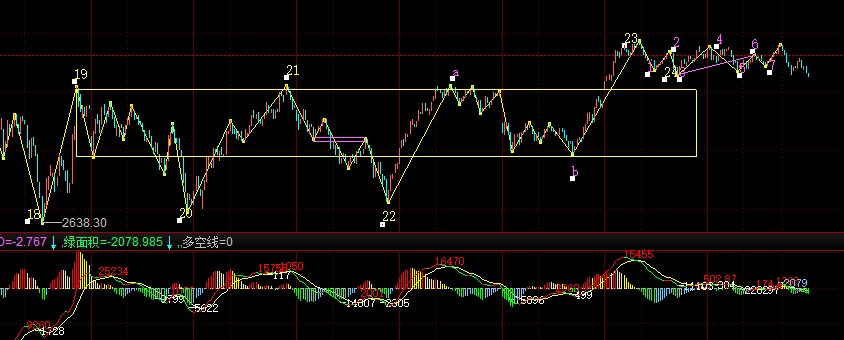
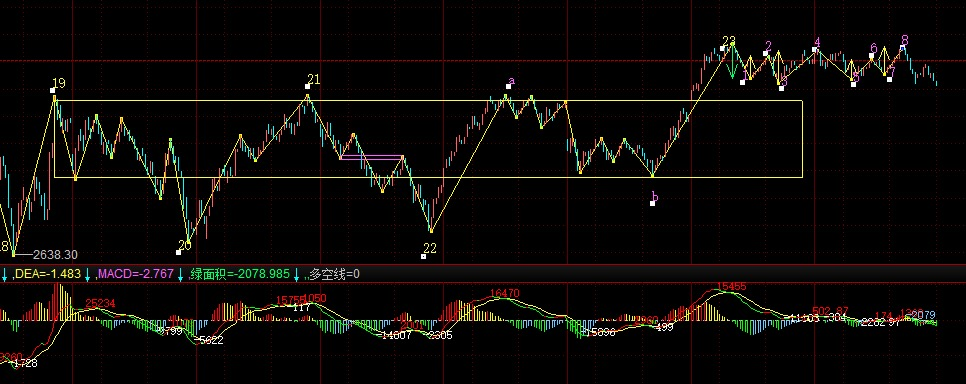
Site updated: 2016-02-06 11:05:54

diff --git a/2016/02/05/大盘分析/20160205大盘分析/index.html b/2016/02/05/大盘分析/20160205大盘分析/index.html
@@ -14,7 +14,7 @@
 <meta property="og:description" content="&amp;#x4E0A;&amp;#x8BC1;5&amp;#x5206;&amp;#x949F;a-b&amp;#x5411;&amp;#x4E0B;&amp;#x672A;&amp;#x7834;22&amp;#x70B9;&amp;#xFF0C;b&amp;#x70B9;&amp;#x5411;&amp;#x4E0A;&amp;#x7834;a&amp;#x70B9;&amp;#xFF0C;22-23&amp;#x4E3A;&amp;#x5411;&amp;#x4E0A;&amp;#x7EBF;&amp;#x6BB5;&amp;#xFF0C;23&amp;#x70B9;&amp;">
 <meta property="og:image" content="http://zj831007.github.io/2016/02/05/大盘分析/20160205大盘分析/m5.png">
 <meta property="og:image" content="http://zj831007.github.io/2016/02/05/大盘分析/20160205大盘分析/m1.png">
-<meta property="og:updated_time" content="2016-02-05T17:12:00.000Z">
+<meta property="og:updated_time" content="2016-02-06T02:04:16.000Z">
 <meta name="twitter:card" content="summary">
 <meta name="twitter:title" content="20160205大盘分析">
 <meta name="twitter:description" content="&amp;#x4E0A;&amp;#x8BC1;5&amp;#x5206;&amp;#x949F;a-b&amp;#x5411;&amp;#x4E0B;&amp;#x672A;&amp;#x7834;22&amp;#x70B9;&amp;#xFF0C;b&amp;#x70B9;&amp;#x5411;&amp;#x4E0A;&amp;#x7834;a&amp;#x70B9;&amp;#xFF0C;22-23&amp;#x4E3A;&amp;#x5411;&amp;#x4E0A;&amp;#x7EBF;&amp;#x6BB5;&amp;#xFF0C;23&amp;#x70B9;&amp;">
@@ -228,7 +228,8 @@
     
     <div class="article-entry" itemprop="articleBody">
       
-        <h3 id="u4E0A_u8BC15_u5206_u949F"><a href="#u4E0A_u8BC15_u5206_u949F" class="headerlink" title="&#x4E0A;&#x8BC1;5&#x5206;&#x949F;"></a>&#x4E0A;&#x8BC1;5&#x5206;&#x949F;</h3><p>a-b&#x5411;&#x4E0B;&#x672A;&#x7834;22&#x70B9;&#xFF0C;b&#x70B9;&#x5411;&#x4E0A;&#x7834;a&#x70B9;&#xFF0C;22-23&#x4E3A;&#x5411;&#x4E0A;&#x7EBF;&#x6BB5;&#xFF0C;23&#x70B9;&#x4E3A;&#x6709;&#x7279;&#x5F81;&#x5E8F;&#x5217;&#x9876;&#x5206;&#x578B;&#xFF0C;&#x56E0;&#x6B64;23&#x70B9;&#x5411;&#x4E0B;&#x7279;&#x5F81;&#x5E8F;&#x5217;&#x5E95;&#x5206;&#x578B;&#x6210;&#x7ACB;&#x624D;&#x80FD;&#x786E;&#x8BA4;23&#x70B9;&#x4E3A;22&#x70B9;&#x5411;&#x4E0A;&#x7EBF;&#x6BB5;&#x7EC8;&#x70B9;&#xFF0C;&#x5F53;&#x524D;12&#xFF0C;34&#xFF0C;56&#x4E3A;&#x7279;&#x5F81;&#x5E8F;&#x5217;&#xFF0C;34&#x5305;&#x542B;12&#x548C;56&#xFF0C;&#x5982;&#x679C;&#x8981;3&#x70B9;&#x4E3A;&#x5E95;&#xFF0C;34&#x53EA;&#x80FD;&#x548C;56&#x8FDB;&#x884C;&#x5305;&#x542B;&#x5904;&#x7406;&#xFF0C;&#x5904;&#x7406;&#x540E;&#x65B0;&#x7EBF;&#x6BB5;&#x4E3A;36&#xFF0C;&#x6B64;&#x65F6;&#x7279;&#x5F81;&#x5E8F;&#x5217;&#x53D8;&#x4E3A;&#xFF1A;12&#xFF0C;36&#xFF0C;7&#x2026;,7&#x70B9;&#x5411;&#x4E0A;&#x7A81;&#x7834;6&#x70B9;&#xFF0C;&#x56E0;&#x6B64;3&#x70B9;&#x5E95;&#x5206;&#x578B;&#x6210;&#x7ACB;&#xFF0C;3&#x70B9;&#x5373;&#x4E3A;24&#x70B9;&#xFF0C;&#x6240;&#x4EE5;23&#x70B9;&#x9876;&#x5206;&#x578B;&#x6210;&#x7ACB;&#xFF0C;24&#x70B9;&#x4E3A;19-22&#x4E2D;&#x67A2;&#x7684;3&#x4E70;&#x70B9;&#x3002;&#x76EE;&#x524D;&#x7B49;&#x5F85;7&#x70B9;&#x540E;&#x7684;25&#x70B9;&#x51FA;&#x73B0;&#x3002;</p>
+        <h3 id="u4E0A_u8BC15_u5206_u949F"><a href="#u4E0A_u8BC15_u5206_u949F" class="headerlink" title="&#x4E0A;&#x8BC1;5&#x5206;&#x949F;"></a>&#x4E0A;&#x8BC1;5&#x5206;&#x949F;</h3><p>a-b&#x5411;&#x4E0B;&#x672A;&#x7834;22&#x70B9;&#xFF0C;b&#x70B9;&#x5411;&#x4E0A;&#x7834;a&#x70B9;&#xFF0C;22-23&#x4E3A;&#x5411;&#x4E0A;&#x7EBF;&#x6BB5;&#xFF0C;23&#x70B9;&#x4E3A;&#x6709;&#x7279;&#x5F81;&#x5E8F;&#x5217;&#x9876;&#x5206;&#x578B;&#xFF0C;&#x5F62;&#x6210;23&#x70B9;&#x9876;&#x5206;&#x578B;&#x7B2C;&#x4E00;&#xFF0C;&#x4E8C;&#x7279;&#x5F81;&#x5E8F;&#x5217;&#x6709;&#x7F3A;&#x53E3;&#xFF0C;&#x56E0;&#x6B64;&#x4E3A;&#x7EBF;&#x6BB5;&#x5212;&#x5206;&#x7684;&#x7B2C;&#x4E8C;&#x79CD;&#x60C5;&#x51B5;&#xFF0C;&#x8981;&#x786E;&#x8BA4;23&#x70B9;&#x4E3A;&#x7EBF;&#x6BB5;&#x5206;&#x754C;&#x70B9;&#xFF0C;&#x5C31;&#x8981;23&#x70B9;&#x540E;&#x7684;&#x8D70;&#x52BF;&#x5F62;&#x6210;&#x7279;&#x5F81;&#x5E8F;&#x5217;&#x5E95;&#x5206;&#x578B;&#xFF0C;&#x770B;&#x9EC4;&#x8272;&#x7684;&#x5411;&#x4E0A;&#x7279;&#x5F81;&#x5E8F;&#x5217;&#x7BAD;&#x5934;&#xFF0C;3&#x5305;&#x542B;1&#xFF0C;&#x56E0;&#x6B64;3&#x70B9;&#x4E0D;&#x80FD;&#x5F62;&#x6210;&#x5E95;&#x5206;&#x578B;&#xFF0C;&#x56E0;&#x4E3A;&#x7531;&#x7F20;&#x8BBA;&#x8BA2;&#x7406;&#x53EF;&#x77E5;&#xFF0C;&#x5F62;&#x6210;&#x9876;&#x5E95;&#x5206;&#x578B;&#x7684;&#x7B2C;&#x4E00;&#x4E8C;&#x5E8F;&#x5217;&#x5143;&#x7D20;&#x6839;&#x672C;&#x5C31;&#x662F;&#x4E0D;&#x540C;&#x7C7B;&#x578B;&#x7684;&#x7279;&#x5F81;&#x5E8F;&#x5217;&#xFF0C;&#x4E0D;&#x80FD;&#x4F5C;&#x5305;&#x542B;&#x5904;&#x7406;&#xFF0C;&#x56E0;&#x6B64;&#xFF0C;&#x8981;&#x5F62;&#x6210;&#x5E95;&#x5206;&#x578B;&#xFF0C;&#x5FC5;&#x5B9A;&#x540E;&#x9762;&#x8D70;&#x52BF;&#x4F1A;&#x8DCC;&#x7834;3&#x70B9;&#x3002;</p>
+<p>&#x76EE;&#x524D;&#x8D70;&#x52BF;&#x4E2D;&#xFF0C;3&#x70B9;&#x7279;&#x5F81;&#x5E8F;&#x5217;&#x548C;1&#xFF0C;5&#x70B9;&#x5305;&#x542B;&#xFF0C;7&#x70B9;&#x7A81;&#x7834;5&#x70B9;&#x9EC4;&#x8272;&#x7BAD;&#x5934;&#x9AD8;&#x70B9;&#xFF0C;8&#x70B9;&#x540E;&#x8D70;&#x52BF;&#x5DF2;&#x7ECF;&#x8DCC;&#x7834;3&#x70B9;&#x521B;&#x65B0;&#x4F4E;&#xFF0C;&#x53EA;&#x8981;8&#x70B9;&#x540E;&#x5411;&#x4E0A;&#x4E00;&#x7B14;&#x53CD;&#x62BD;&#x8FC7;8&#x70B9;&#xFF0C;&#x5E95;&#x5206;&#x578B;&#x6210;&#x7ACB;&#xFF0C;23&#x70B9;&#x5C31;&#x786E;&#x8BA4;&#xFF0C;&#x5982;&#x679C;&#x4E0D;&#x80FD;&#x5411;&#x4E0A;&#x7A81;&#x7834;8&#x70B9;&#x5219;23&#x70B9;&#x5411;&#x4E0B;&#x8D70;&#x52BF;&#x5EF6;&#x7EED;&#x3002;</p>
 <a id="more"></a>
 <p><img src="/2016/02/05/&#x5927;&#x76D8;&#x5206;&#x6790;/20160205&#x5927;&#x76D8;&#x5206;&#x6790;/m5.png" alt=""></p>
 <h3 id="u4E0A_u8BC11_u5206_u949F"><a href="#u4E0A_u8BC11_u5206_u949F" class="headerlink" title="&#x4E0A;&#x8BC1;1&#x5206;&#x949F;"></a>&#x4E0A;&#x8BC1;1&#x5206;&#x949F;</h3><p>14-15&#x6CA1;&#x6709;&#x660E;&#x663E;&#x80CC;&#x9A70;&#xFF0C;&#x4F46;15&#x70B9;&#x5411;&#x4E0B;&#x5DF2;&#x7ECF;&#x6210;&#x7EBF;&#x6BB5;&#xFF0C;&#x56E0;&#x6B64;15&#x70B9;&#x786E;&#x8BA4;&#x3002;<br><img src="/2016/02/05/&#x5927;&#x76D8;&#x5206;&#x6790;/20160205&#x5927;&#x76D8;&#x5206;&#x6790;/m1.png" alt=""></p>

diff --git a/index.html b/index.html
@@ -273,7 +273,8 @@
     
     <div class="article-entry" itemprop="articleBody">
       
-        <h3 id="u4E0A_u8BC15_u5206_u949F"><a href="#u4E0A_u8BC15_u5206_u949F" class="headerlink" title="&#x4E0A;&#x8BC1;5&#x5206;&#x949F;"></a>&#x4E0A;&#x8BC1;5&#x5206;&#x949F;</h3><p>a-b&#x5411;&#x4E0B;&#x672A;&#x7834;22&#x70B9;&#xFF0C;b&#x70B9;&#x5411;&#x4E0A;&#x7834;a&#x70B9;&#xFF0C;22-23&#x4E3A;&#x5411;&#x4E0A;&#x7EBF;&#x6BB5;&#xFF0C;23&#x70B9;&#x4E3A;&#x6709;&#x7279;&#x5F81;&#x5E8F;&#x5217;&#x9876;&#x5206;&#x578B;&#xFF0C;&#x56E0;&#x6B64;23&#x70B9;&#x5411;&#x4E0B;&#x7279;&#x5F81;&#x5E8F;&#x5217;&#x5E95;&#x5206;&#x578B;&#x6210;&#x7ACB;&#x624D;&#x80FD;&#x786E;&#x8BA4;23&#x70B9;&#x4E3A;22&#x70B9;&#x5411;&#x4E0A;&#x7EBF;&#x6BB5;&#x7EC8;&#x70B9;&#xFF0C;&#x5F53;&#x524D;12&#xFF0C;34&#xFF0C;56&#x4E3A;&#x7279;&#x5F81;&#x5E8F;&#x5217;&#xFF0C;34&#x5305;&#x542B;12&#x548C;56&#xFF0C;&#x5982;&#x679C;&#x8981;3&#x70B9;&#x4E3A;&#x5E95;&#xFF0C;34&#x53EA;&#x80FD;&#x548C;56&#x8FDB;&#x884C;&#x5305;&#x542B;&#x5904;&#x7406;&#xFF0C;&#x5904;&#x7406;&#x540E;&#x65B0;&#x7EBF;&#x6BB5;&#x4E3A;36&#xFF0C;&#x6B64;&#x65F6;&#x7279;&#x5F81;&#x5E8F;&#x5217;&#x53D8;&#x4E3A;&#xFF1A;12&#xFF0C;36&#xFF0C;7&#x2026;,7&#x70B9;&#x5411;&#x4E0A;&#x7A81;&#x7834;6&#x70B9;&#xFF0C;&#x56E0;&#x6B64;3&#x70B9;&#x5E95;&#x5206;&#x578B;&#x6210;&#x7ACB;&#xFF0C;3&#x70B9;&#x5373;&#x4E3A;24&#x70B9;&#xFF0C;&#x6240;&#x4EE5;23&#x70B9;&#x9876;&#x5206;&#x578B;&#x6210;&#x7ACB;&#xFF0C;24&#x70B9;&#x4E3A;19-22&#x4E2D;&#x67A2;&#x7684;3&#x4E70;&#x70B9;&#x3002;&#x76EE;&#x524D;&#x7B49;&#x5F85;7&#x70B9;&#x540E;&#x7684;25&#x70B9;&#x51FA;&#x73B0;&#x3002;</p>
+        <h3 id="u4E0A_u8BC15_u5206_u949F"><a href="#u4E0A_u8BC15_u5206_u949F" class="headerlink" title="&#x4E0A;&#x8BC1;5&#x5206;&#x949F;"></a>&#x4E0A;&#x8BC1;5&#x5206;&#x949F;</h3><p>a-b&#x5411;&#x4E0B;&#x672A;&#x7834;22&#x70B9;&#xFF0C;b&#x70B9;&#x5411;&#x4E0A;&#x7834;a&#x70B9;&#xFF0C;22-23&#x4E3A;&#x5411;&#x4E0A;&#x7EBF;&#x6BB5;&#xFF0C;23&#x70B9;&#x4E3A;&#x6709;&#x7279;&#x5F81;&#x5E8F;&#x5217;&#x9876;&#x5206;&#x578B;&#xFF0C;&#x5F62;&#x6210;23&#x70B9;&#x9876;&#x5206;&#x578B;&#x7B2C;&#x4E00;&#xFF0C;&#x4E8C;&#x7279;&#x5F81;&#x5E8F;&#x5217;&#x6709;&#x7F3A;&#x53E3;&#xFF0C;&#x56E0;&#x6B64;&#x4E3A;&#x7EBF;&#x6BB5;&#x5212;&#x5206;&#x7684;&#x7B2C;&#x4E8C;&#x79CD;&#x60C5;&#x51B5;&#xFF0C;&#x8981;&#x786E;&#x8BA4;23&#x70B9;&#x4E3A;&#x7EBF;&#x6BB5;&#x5206;&#x754C;&#x70B9;&#xFF0C;&#x5C31;&#x8981;23&#x70B9;&#x540E;&#x7684;&#x8D70;&#x52BF;&#x5F62;&#x6210;&#x7279;&#x5F81;&#x5E8F;&#x5217;&#x5E95;&#x5206;&#x578B;&#xFF0C;&#x770B;&#x9EC4;&#x8272;&#x7684;&#x5411;&#x4E0A;&#x7279;&#x5F81;&#x5E8F;&#x5217;&#x7BAD;&#x5934;&#xFF0C;3&#x5305;&#x542B;1&#xFF0C;&#x56E0;&#x6B64;3&#x70B9;&#x4E0D;&#x80FD;&#x5F62;&#x6210;&#x5E95;&#x5206;&#x578B;&#xFF0C;&#x56E0;&#x4E3A;&#x7531;&#x7F20;&#x8BBA;&#x8BA2;&#x7406;&#x53EF;&#x77E5;&#xFF0C;&#x5F62;&#x6210;&#x9876;&#x5E95;&#x5206;&#x578B;&#x7684;&#x7B2C;&#x4E00;&#x4E8C;&#x5E8F;&#x5217;&#x5143;&#x7D20;&#x6839;&#x672C;&#x5C31;&#x662F;&#x4E0D;&#x540C;&#x7C7B;&#x578B;&#x7684;&#x7279;&#x5F81;&#x5E8F;&#x5217;&#xFF0C;&#x4E0D;&#x80FD;&#x4F5C;&#x5305;&#x542B;&#x5904;&#x7406;&#xFF0C;&#x56E0;&#x6B64;&#xFF0C;&#x8981;&#x5F62;&#x6210;&#x5E95;&#x5206;&#x578B;&#xFF0C;&#x5FC5;&#x5B9A;&#x540E;&#x9762;&#x8D70;&#x52BF;&#x4F1A;&#x8DCC;&#x7834;3&#x70B9;&#x3002;</p>
+<p>&#x76EE;&#x524D;&#x8D70;&#x52BF;&#x4E2D;&#xFF0C;3&#x70B9;&#x7279;&#x5F81;&#x5E8F;&#x5217;&#x548C;1&#xFF0C;5&#x70B9;&#x5305;&#x542B;&#xFF0C;7&#x70B9;&#x7A81;&#x7834;5&#x70B9;&#x9EC4;&#x8272;&#x7BAD;&#x5934;&#x9AD8;&#x70B9;&#xFF0C;8&#x70B9;&#x540E;&#x8D70;&#x52BF;&#x5DF2;&#x7ECF;&#x8DCC;&#x7834;3&#x70B9;&#x521B;&#x65B0;&#x4F4E;&#xFF0C;&#x53EA;&#x8981;8&#x70B9;&#x540E;&#x5411;&#x4E0A;&#x4E00;&#x7B14;&#x53CD;&#x62BD;&#x8FC7;8&#x70B9;&#xFF0C;&#x5E95;&#x5206;&#x578B;&#x6210;&#x7ACB;&#xFF0C;23&#x70B9;&#x5C31;&#x786E;&#x8BA4;&#xFF0C;&#x5982;&#x679C;&#x4E0D;&#x80FD;&#x5411;&#x4E0A;&#x7A81;&#x7834;8&#x70B9;&#x5219;23&#x70B9;&#x5411;&#x4E0B;&#x8D70;&#x52BF;&#x5EF6;&#x7EED;&#x3002;</p>
       
     </div>
     
